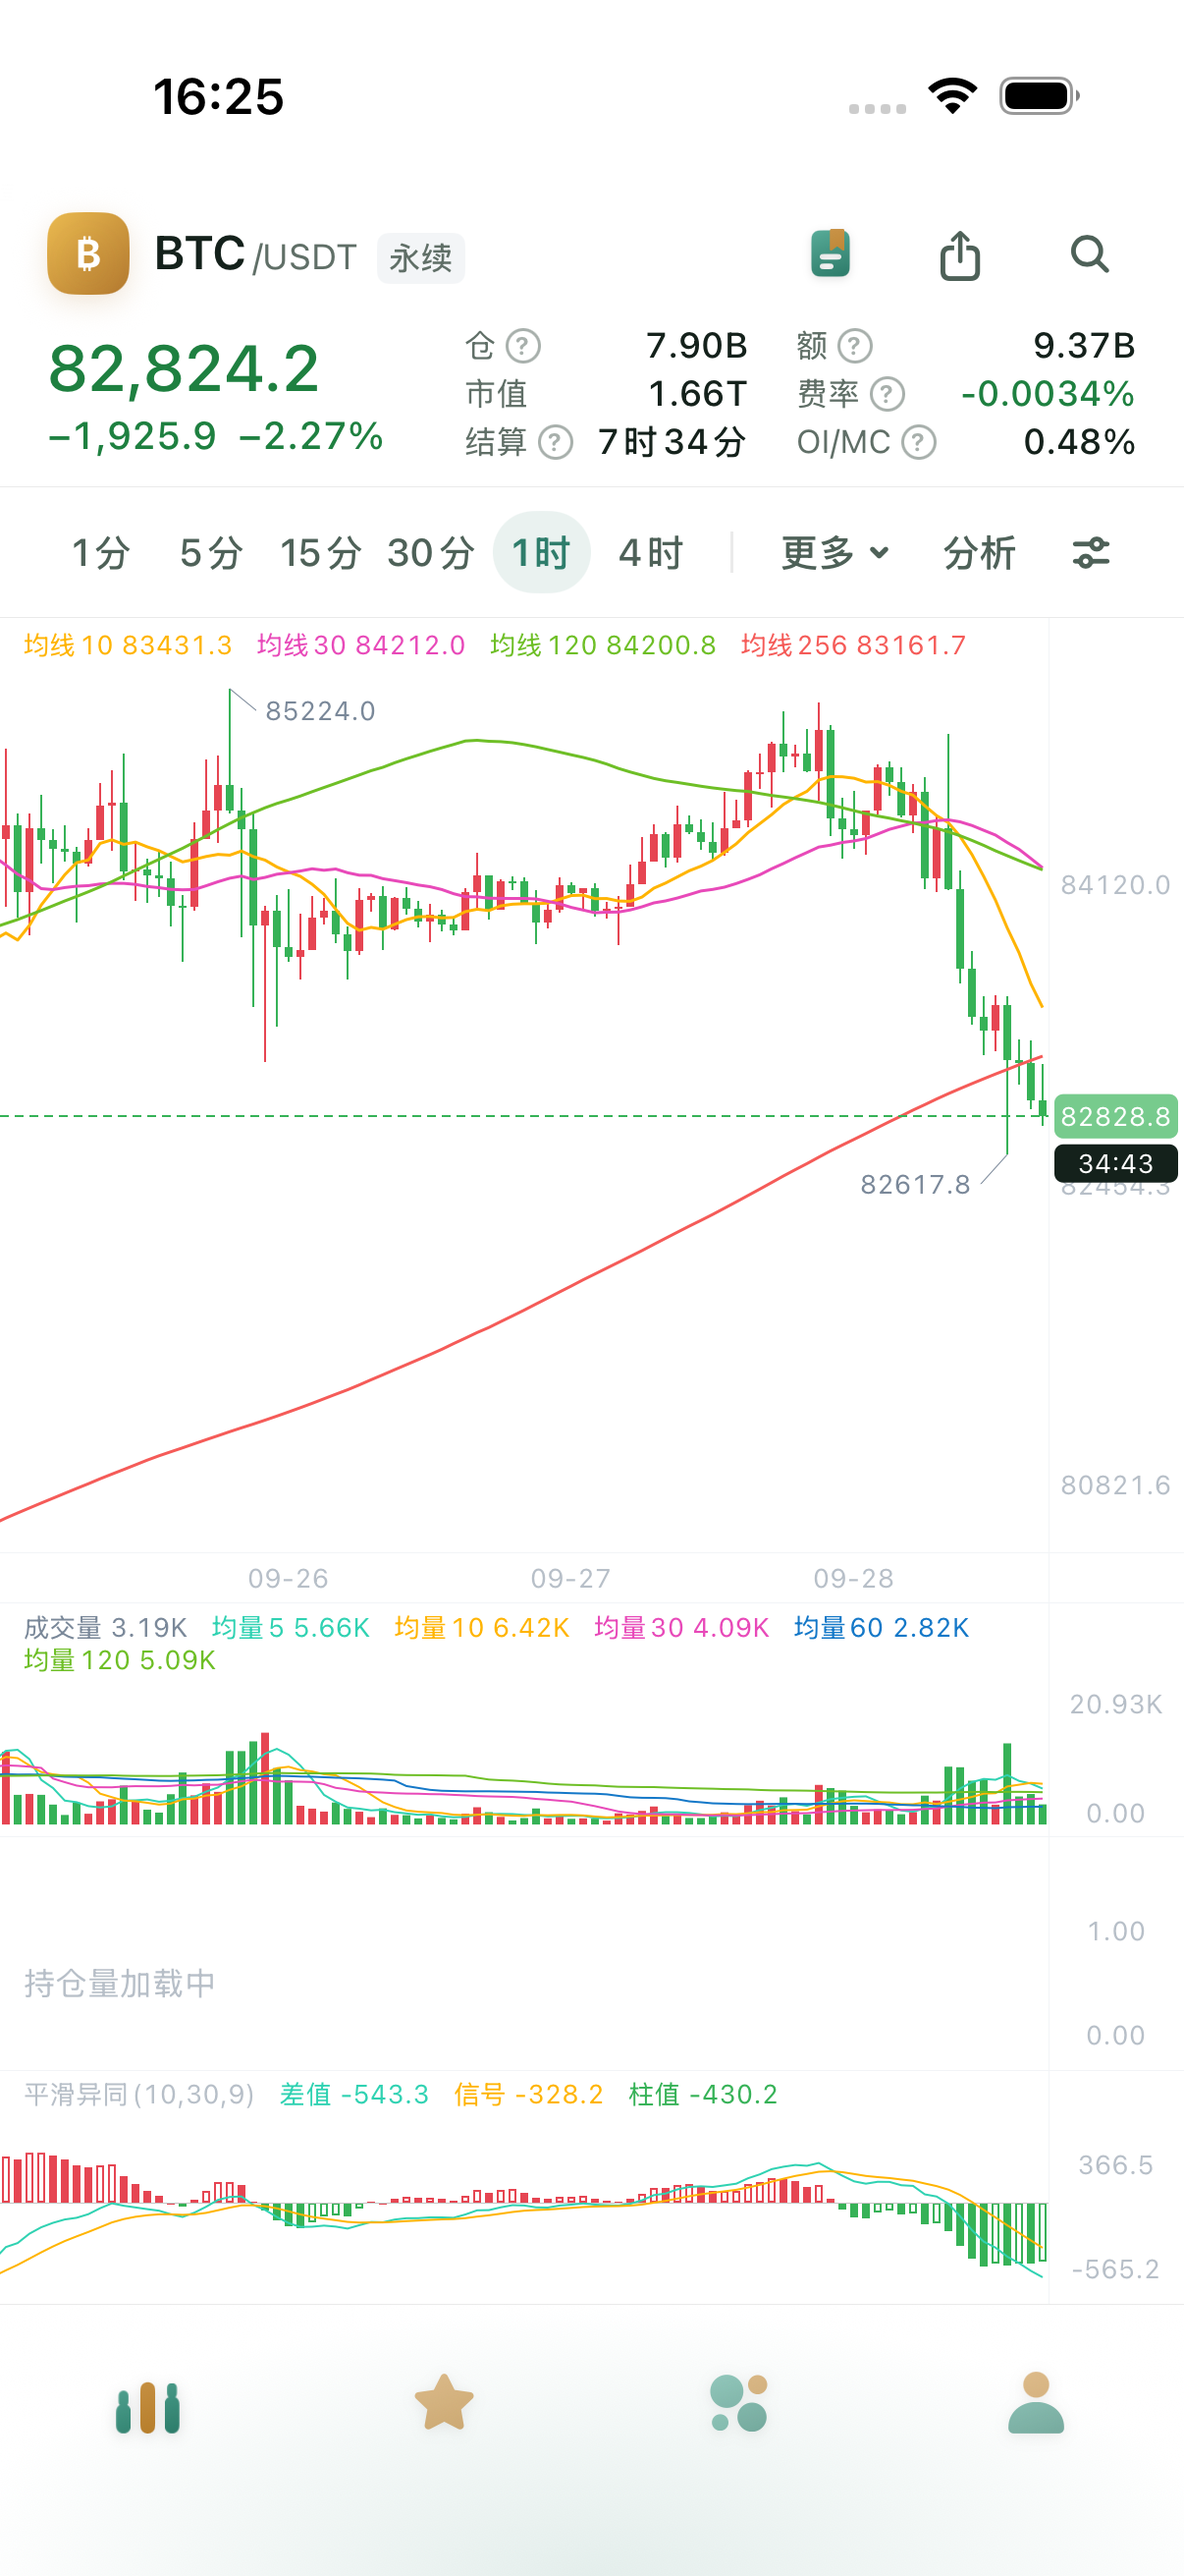
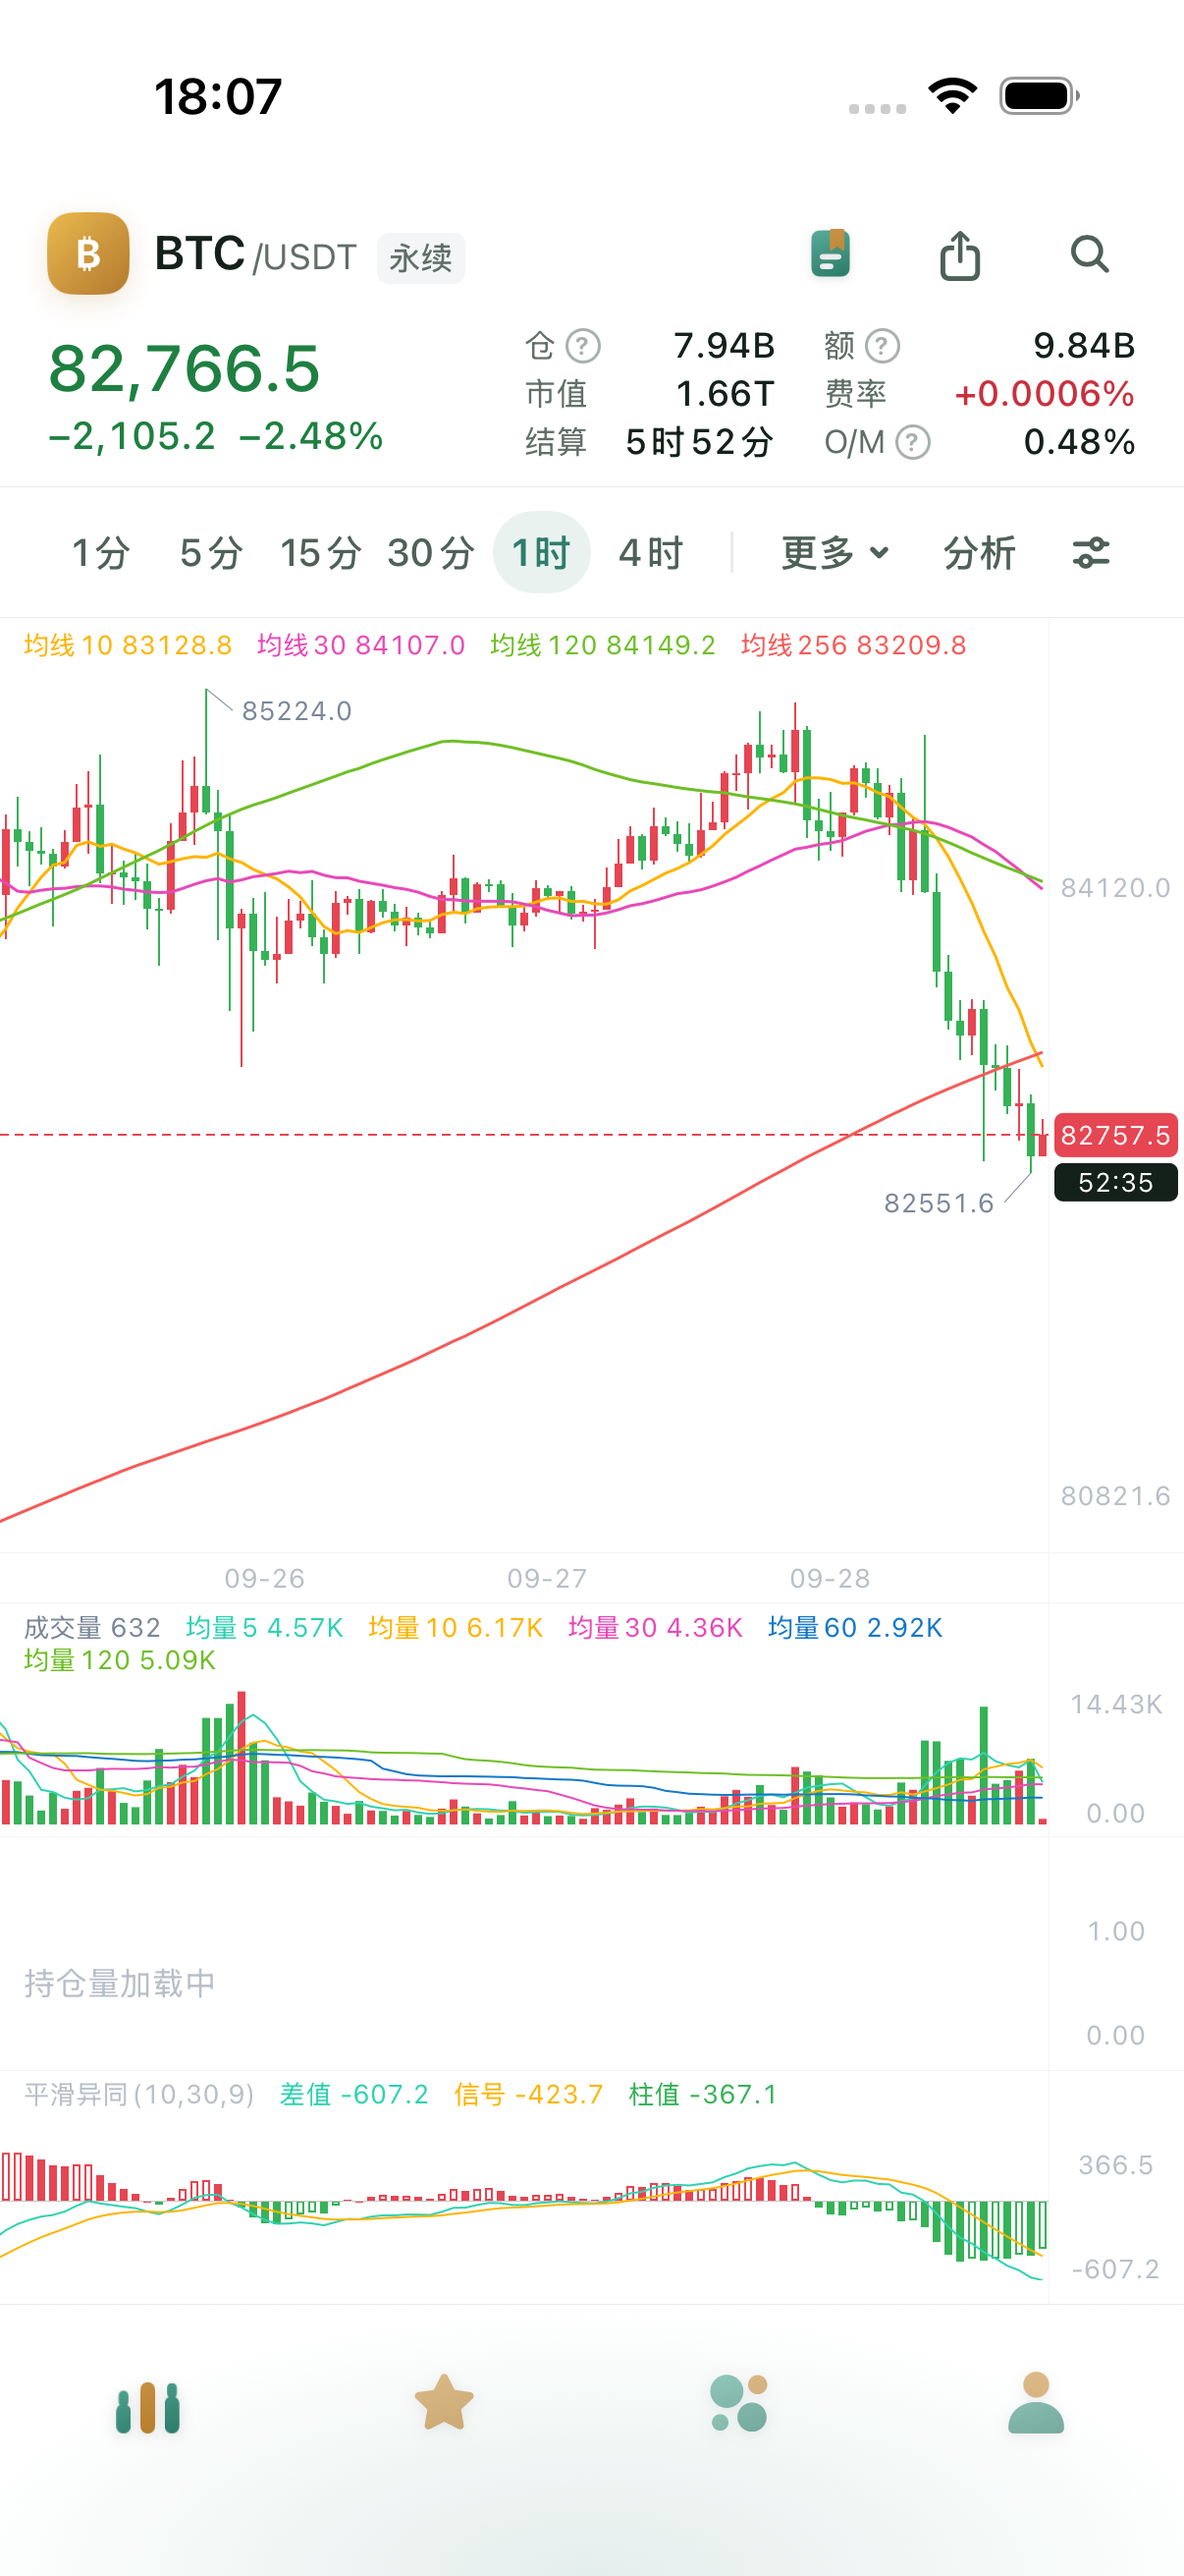
术语问号 · PROJECT.md §28 对齐三次纠正 + 第一阶段截图重录：原来 §28 还写着六格挂五颗问号、标签 OI/MC / Fwd PE，证据目录里还留着「术语卡-结算」两张 → 现在 §28 写成 仓ⓘ · 市值 · 结算 | 额ⓘ · 费率 · O/Mⓘ（美股 FPE / P/S），注明 费率 / 结算 的问号按用户 2026-09-28 的话去掉、以及第二阶段的落地小节；证据目录按 aa19e72e / bf6bd191 / 2ab758a0 之后的界面重录 14 张，「术语卡-结算」两张删掉换成「术语卡-额」

diff --git a/.project-memory/PROJECT.md b/.project-memory/PROJECT.md
@@ -735,9 +735,16 @@ worker 日志 `Alert evaluator watching 1 stream(s)`（措辞从 `symbol(s)` 变
 
 ## 28. 术语问号 · 顶栏乙方案 · 行情停住变灰 · 底栏渐变 · 板块副文案（2026-09-28）
 
-- **术语问号**：模块在 `Kanpan/Kanpan/Glossary/`。`GlossaryTerm`（id / title / body），词条按页面一文件写成 `extension GlossaryTerm { static let … }`（`GlossaryTerms+Header.swift`：仓 `openInterest`、额 `turnover`、费率 `fundingRate`、结算 `settlement`、OI/MC `oiToMarketCap`、Fwd PE `forwardPE`、P/S `priceToSales`）。`TermMark(.openInterest, theme:)`：12pt 细圈「?」，颜色跟随所在文字 × 55%，左距 3pt，命中区 32×32 用 `contentShape` + 负边距做、不撑排版（注意：容器的无障碍框会被这 32pt 撑大，量排版要量文字本身）；`onTapGesture` 不用 `Button`，从问号上起手横滑仍然扫图；标识 `term.<id>`。`GlossaryCard`：宽 280、圆角 18、`raised` 底，标题 16 semibold、正文 14 `ink2`、发丝线、强调色「知道了」，遮罩与「知道了」都关，0.2 秒淡入淡出。`GlossaryPresenter` 走 UIKit：顺着 `presentedViewController` 找最顶层，在上面无动画 present 透明 `overFullScreen` 宿主（`GlossaryHostController`），所以半屏面板、系统 sheet、横屏画线台（同窗口的视图叠层）上都落在最上面；同刻只弹一张。DEBUG 探针 `KANPAN_TEST_GLOSSARY_PROBE=1` 在 `PanelSheet` 标题旁放一颗 `term.probe`，只给 UI 用例验证「面板里点开落最上层」（面板开着时头部被 `panel.outside` 挡板盖住，头部问号点不到）。
-- **顶栏乙方案**：左侧只剩返回圆片；右侧三颗圆片「记一笔 · 分享 · 搜索」（`top.note` 用 `ReviewGlyph`、`top.share` 用 `square.and.arrow.up`、`top.search`）。图表设置删掉「这张图」整节，只剩 K 线 · 显示 · 价格轴。分享：图片与画线都能发时开一块 `PanelKind.share`（`SharePanel` 包 `ShareChooser`，不带返回），只有一种时直接走那一种。有返回键时品种名可用宽 ≥ 170pt，16 Pro 上 PUMPBTC/USDT 不截断。六格：仓ⓘ · 市值 · 结算ⓘ | 额ⓘ · 费率ⓘ · OI/MCⓘ（美股 Fwd PE / P/S），不折行。
+- **术语问号**：模块在 `Kanpan/Kanpan/Glossary/`。`GlossaryTerm`（id / title / body），词条按页面一文件写成 `extension GlossaryTerm { static let … }`（`GlossaryTerms+Header.swift`：仓 `openInterest`、额 `turnover`、O/M `oiToMarketCap`、FPE `forwardPE`、P/S `priceToSales`）。`TermMark(.openInterest, theme:)`：12pt 细圈「?」，颜色跟随所在文字 × 55%，左距 3pt，命中区 32×32 用 `contentShape` + 负边距做、不撑排版（注意：容器的无障碍框会被这 32pt 撑大，量排版要量文字本身）；`onTapGesture` 不用 `Button`，从问号上起手横滑仍然扫图；标识 `term.<id>`。`GlossaryCard`：宽 280、圆角 18、`raised` 底，标题 16 semibold、正文 14 `ink2`、发丝线、强调色「知道了」，遮罩与「知道了」都关，0.2 秒淡入淡出。`GlossaryPresenter` 走 UIKit：顺着 `presentedViewController` 找最顶层，在上面无动画 present 透明 `overFullScreen` 宿主（`GlossaryHostController`），所以半屏面板、系统 sheet、横屏画线台（同窗口的视图叠层）上都落在最上面；同刻只弹一张。DEBUG 探针 `KANPAN_TEST_GLOSSARY_PROBE=1` 在 `PanelSheet` 标题旁放一颗 `term.probe`，只给 UI 用例验证「面板里点开落最上层」（面板开着时头部被 `panel.outside` 挡板盖住，头部问号点不到）。
+- **顶栏乙方案**：左侧只剩返回圆片；右侧三颗圆片「记一笔 · 分享 · 搜索」（`top.note` 用 `ReviewGlyph`、`top.share` 用 `square.and.arrow.up`、`top.search`）。图表设置删掉「这张图」整节，只剩 K 线 · 显示 · 价格轴。分享：图片与画线都能发时开一块 `PanelKind.share`（`SharePanel` 包 `ShareChooser`，不带返回），只有一种时直接走那一种。有返回键时品种名可用宽 ≥ 170pt，16 Pro 上 PUMPBTC/USDT 不截断。六格：仓ⓘ · 市值 · 结算 | 额ⓘ · 费率 · O/Mⓘ（美股 FPE / P/S；标签原来写「OI/MC」「Fwd PE」，2026-09-28 用户说「美股直接显示 fpe 即可」「oi/mc 换成 o/m」——用户点名的英文缩写也取最短写法），不折行。费率、结算的问号第一版挂过，用户看了说「很明显」，同日去掉：问号只给交易员读不出所指的词（缩到一两个字的、英文缩写、自造短名），行业标准词不挂。
 - **行情停住变灰**：`PanelTheme.staleInk`（`Palette.staleInk`，不太灰），只用在顶栏价格与涨跌小字。链路：WS 看门狗 `.live / .reconnecting / .offline` → `MarketModel.noteFeedStatus` / `trackLink` 记 `linkDownSince` → `sweepDisplayLifetimes` 过 `linkGrace` 5 秒置 `linkDown`；`priceFresh = !tickerStale && !linkDown && info.status.hasLivePrice` → `MainHeaderView` 传 `stale: !market.priceFresh` → `PriceRow` 换 `staleInk`（六格 `—` / `ink3` 原样）。不加任何状态字段。诊断串 `market.quote` 末尾加 `fresh=0|1`。断网用 `KANPAN_TEST_NET_OUTAGE=<起点 unix 秒>:<秒数>`（仅 DEBUG）。
 - **底栏渐变**：底栏自己没有底；身后一块 96pt 渐变铺到本页底色（0% 透明、45% 处 0.86、70% 起实色，一直铺到 home 条），各页用各自底色，`allowsHitTesting(false)`；图表页不铺（会压暗时间轴）。四个 tab 的滚动页底部多留约 50pt（`TabBar.fadeClearance`）。
 - **板块副文案**：板块列表每行与品种列表头部都只有一句「15/21 跑赢大盘」（`SectorSubtitle`），成交额与 5 日「20 日」尾巴去掉；样本太薄的板块与空壳不显示副文案；页标题「N 个板块 · M 个品种」保留。
 - **验收**：用例 `Kanpan/KanpanUITests/TermMarkTopBarUITests.swift`（三颗圆片、问号卡开关、卡在面板之上、问号上横滑换品种、断网变灰再恢复、板块副文案与拉到底）；截图 `docs/acceptance/术语问号与顶栏-2026-09-28/`（iPhone 16 Pro，青苔浅为主，陶土、经典各一张）。
+
+### 第二阶段 · 全 app 展示语缩短 + 有歧义的挂问号（2026-09-28）
+
+- **改名**：指标 主动买卖比→买卖比、累计成交量差→量差、当日均价线→均价线、抛物线转向→抛物线（`IndicatorID.name` / `lineNames`，量差副图图例改读 `key.name`）；分析面板「添加对比品种」→「添加对比」、订单流「在图上显示」→「显示」、门槛表「价格步长」→「步长」；设置 涨跌配色→涨跌色、行情线路→线路、提醒铃声→铃声（铃声页标题同改）、自选波动提醒→波动提醒、品种上新与停牌下架→上新下架、按我的习惯自动调整→自动适应；我的 交易所账户→交易所（页标题同改），交易所页 Key→密钥、回溯范围→回溯、移除确认「移除这把密钥？」；复盘战绩 总净盈亏→净盈亏、手续费占毛利→费用占毛利；「接入交易所账户后自动生成」→「接入交易所后自动生成」；副图空态「当前行情线路不提供…」与持仓量提示同步改「当前线路不提供…」。保留不改：「开始画线」「清除对比」「朋友与收件箱」、密钥输入框占位「只读 API Key」与错误文案里的 Key、指标线名「当日均价」「转向点」。
+- **问号**（判据是用户 2026-09-28 的纠正：只给「看合约行情的交易员读不出指什么」的词挂——缩到一两个字的、自造或不常见的短名；行业标准词一律不挂，宁少勿多，问号一多整行就花了。所以布林带 / 指数均线 / 平滑异同 / 相对强弱 / 随机指标 / 动向指标 / 超级趋势 / 主力订单流、盘口、画法、铃声、上新下架、净盈亏、最大浮盈 / 浮亏、资金费、胜率等都**不挂**。词条按页面分文件，都在 `Kanpan/Kanpan/Glossary/`）：`+Indicators`（均价线、抛物线、多空比、买卖比、基差、量差、门槛、步长）、`+ChartPanel`（刻度）、`+Settings`（线路、波动提醒、自动适应）、`+Exchange`（回溯）、`+Alerts`（条件、Webhook——原来脚注里的「触发时向这个地址发一条 JSON」挪进卡里，脚注只剩「发一条测试」）、`+Review`（盈亏比、每笔期望、费用占毛利、成交、已实现、单笔盈亏比、离开后）。整行可点的行（分析面板的指标行、门槛行）问号不进 Button：`PanelRow(term:)` 在按钮里留一个 `TermSlotKey` 锚点空位，问号用 `overlayPreferenceValue` 叠在按钮外面，点问号只开卡、点行别处照旧进参数 / 门槛表；按钮自己的标识改由 `buttonID` / `buttonLabel` 给。`PanelGroupTitle(term:)` 参数留着，收紧判据后暂时没有节头挂问号。
+- **复盘包不复制词表**：`ReviewTheme.termMark: ReviewTermMarkProvider?`（`(String) -> AnyView`，不参与 `==`），包里用 `ReviewTermMark(id)` / `ReviewTermLabel(title, term:)` / `ReviewSection(_, term:)`；宿主 `ReviewThemeBridge` 注入 `GlossaryTerm.review(id)` → `TermMark`。交易详情「离开后」一节的 `trade.detail.after` 标识从 Section 挪到三行上（挂在 Section 上会盖掉节头问号的 `term.afterClose`）。
+- **验收**：新用例 `Kanpan/KanpanUITests/TermMarkPagesUITests.swift` 四条（分析面板 + 门槛表 + 图表设置 / 设置 / 我的 › 交易所 + 复盘战绩 + 交易详情 / 创建提醒），每颗问号都「开卡、标题对、知道了关掉、页面还在」，门槛问号不进表。用例里的 `reveal` 用「按住拖一小段、停住再松手」代替甩（半屏面板上甩的惯性会把问号直接带过可视区），拖不动才退回甩，交出前等滚动停稳。iPhone 16 Pro：收紧前跑受影响的 15 个套件 39 条 38 过，唯一红的是存量的 AlertSound 通知权限那条（已装过 app 的模拟器上必红，见 §25）；收紧后重跑 TermMarkPages 4 条、TermMarkTopBar 5 条、SettingsWording、ConditionAlerts、ChartPanelLayout、IndicatorLayoutGroupsEvidence、ExchangeReview 接入页全过；MainScreenUITests 18 条 16 过，红的两条是 `testHeaderStatsStayRightOfPrice` / `testHeaderStatsAtLargestDynamicType`：深链进 BTCUSDT 后 30 秒涨跌行一直是「—」（`ticker.priceChange` 为空；SNDK / MU / 1000SATS 都正常），与这一轮的改动无关，留给头部那条线查；`make core-test` 451 过。截图同目录 `docs/acceptance/术语问号与顶栏-2026-09-28/`（`iPhone16Pro-<页面>-…-<皮肤>.png`，青苔浅为主，设置下半陶土、创建提醒 Webhook 经典各一张）。
